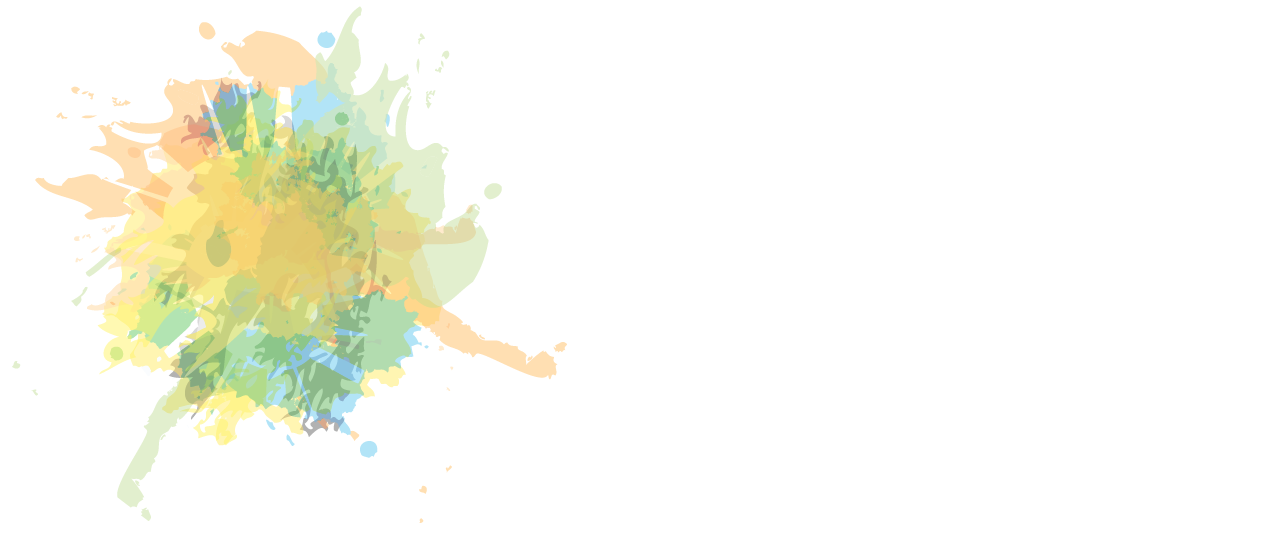
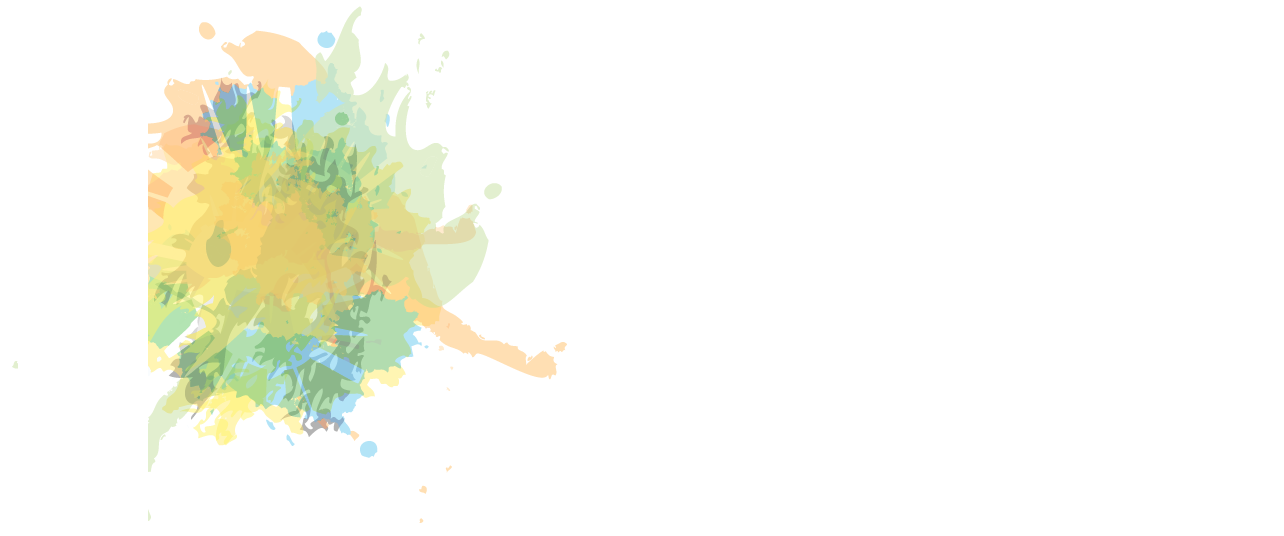
create prototype finished...
couldn’t get the logo to get behind the header all the way. if anyone
has suggestions it would be appreciated.

Changed region(s): [[0.0312, 0.209, 0.1246, 0.6866], [0.0935, 0.806, 0.1246, 0.9552]]

diff --git a/index.html b/index.html
@@ -81,10 +81,10 @@
 
         <section id="create">
 
-    	   <div class="row">
+    	   <div class="row first-row">
                <h2 class="title-basics col-md-3 create-title">What Will I <strong>Create</strong></h2>
-		<!-- <img src="images/IDDBG_3Create-23.png" class="create-header-image"> -->
 		
+	  	
 	      <p class="create-info col-md-8">
 	      Real websites, applications, products, posters and more created for real people, by real Freed-Hardman
 	      University students. Our students are given the opportunity to not only learn the technique and skills required
@@ -105,7 +105,12 @@
 		
 		  <h3>Product Design</h3>
 		    <div class="row">
-		    
+		      <img src="images/Katie_Benson_FA12_03_GD2.jpg" class="col-md-4 pic-one">
+		      <img src="images/Katie_Benson_FA12_01_GD2.jpg" class="col-md-4 pic-two">
+		      <img src="images/Katie_Benson_FA12_02_GD2.jpg" class="col-md-4 pic-three">
+		    </div>
+		    <div class="row">
+		      <img src="images/Marissa_Janes_SP11_GD2.jpg" class="col-md-8 fresh-pic">
 		    </div>
 		
 		  <h3>Application Design And Development</h3>

diff --git a/css/style.css b/css/style.css
@@ -220,6 +220,20 @@ header .container #img-text .heading {
 	float: left;
 }
 
+.fresh-pic{
+	padding-top: 20px;
+}
+
+#create{
+	background: url('../images/create-background.png') left top no-repeat;
+	
+	
+}
+
+.pic-one{
+	padding-right: 10px;
+}
+m
 /*** Classes ***/
 #classes li {
 	list-style: none;
